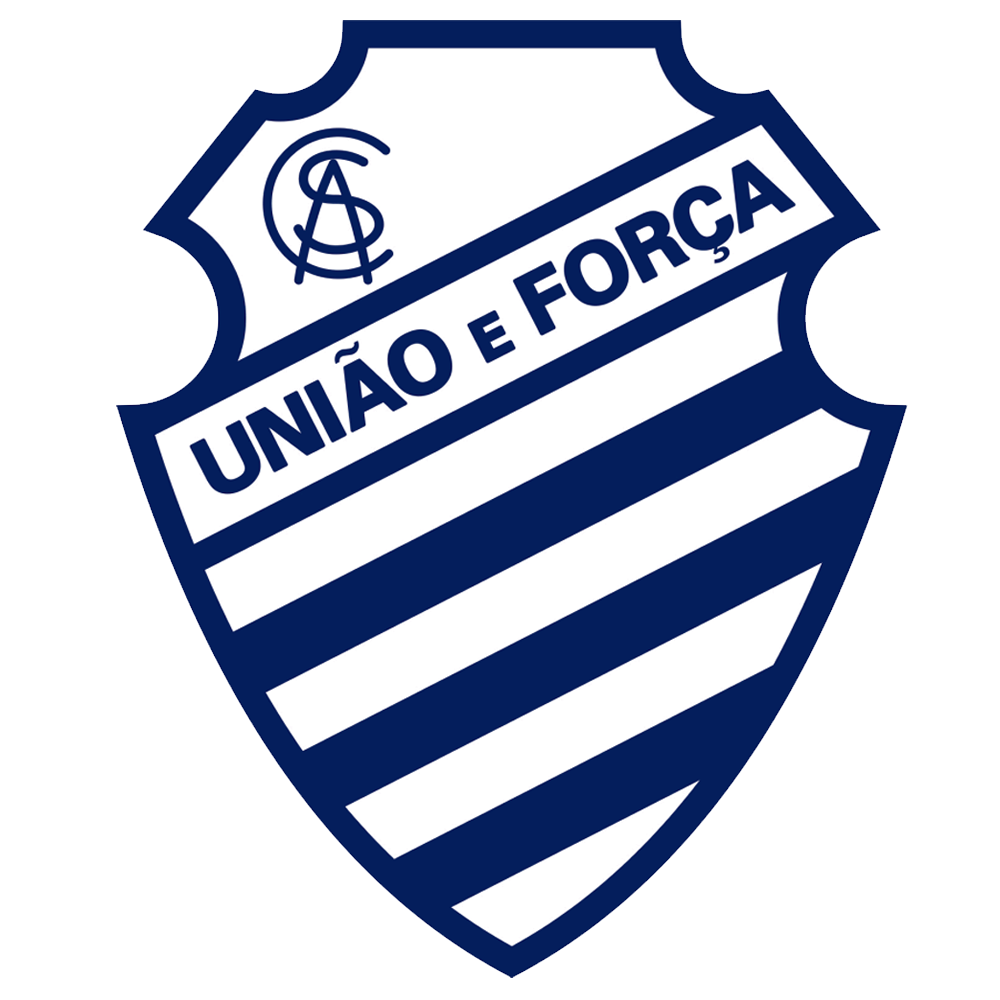
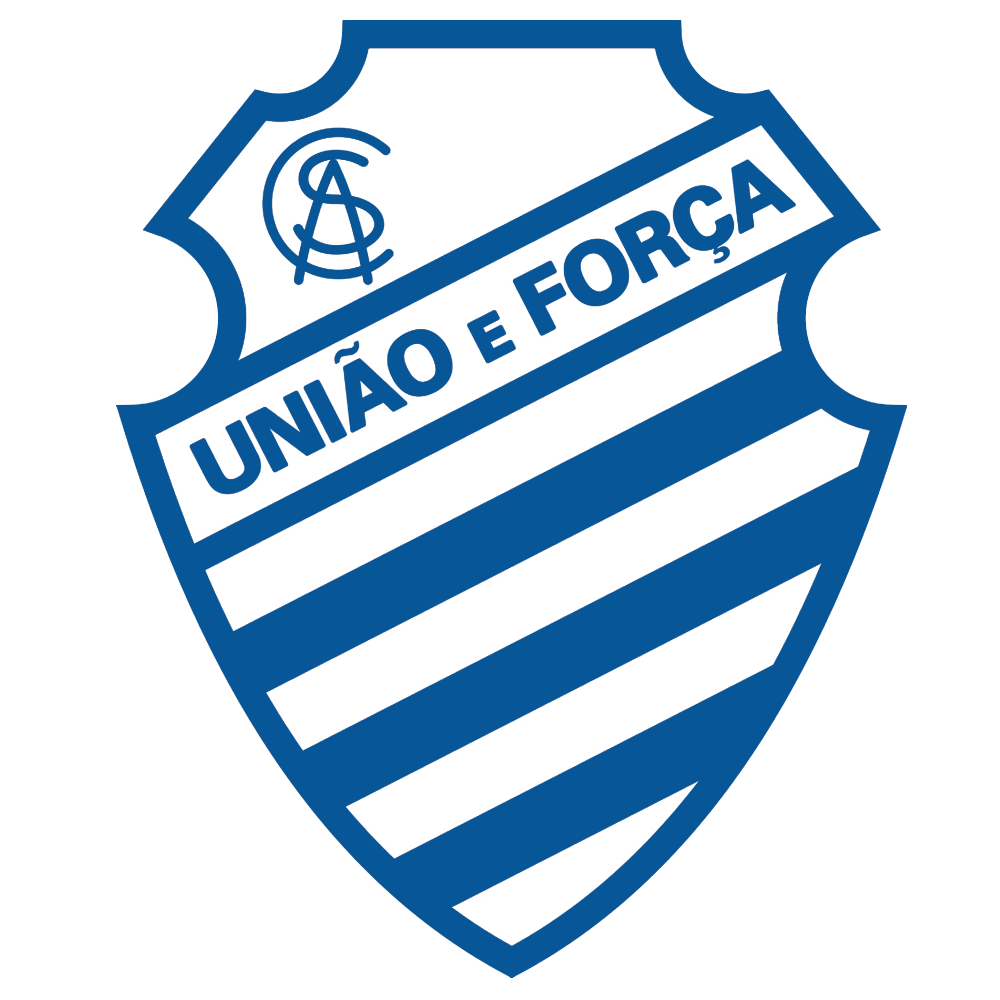
atualizando csa

Changed region(s): [[0.093, 0.0, 0.93, 0.992]]

diff --git a/santosdepressivo.php b/santosdepressivo.php
@@ -280,7 +280,7 @@
                 return "#075798";
             }
             else if($time == "CSA"){
-                return "#041e5c";
+                return "#075798";
             }
             else if($time == "Cuiabá"){
                 return "#fde900";
